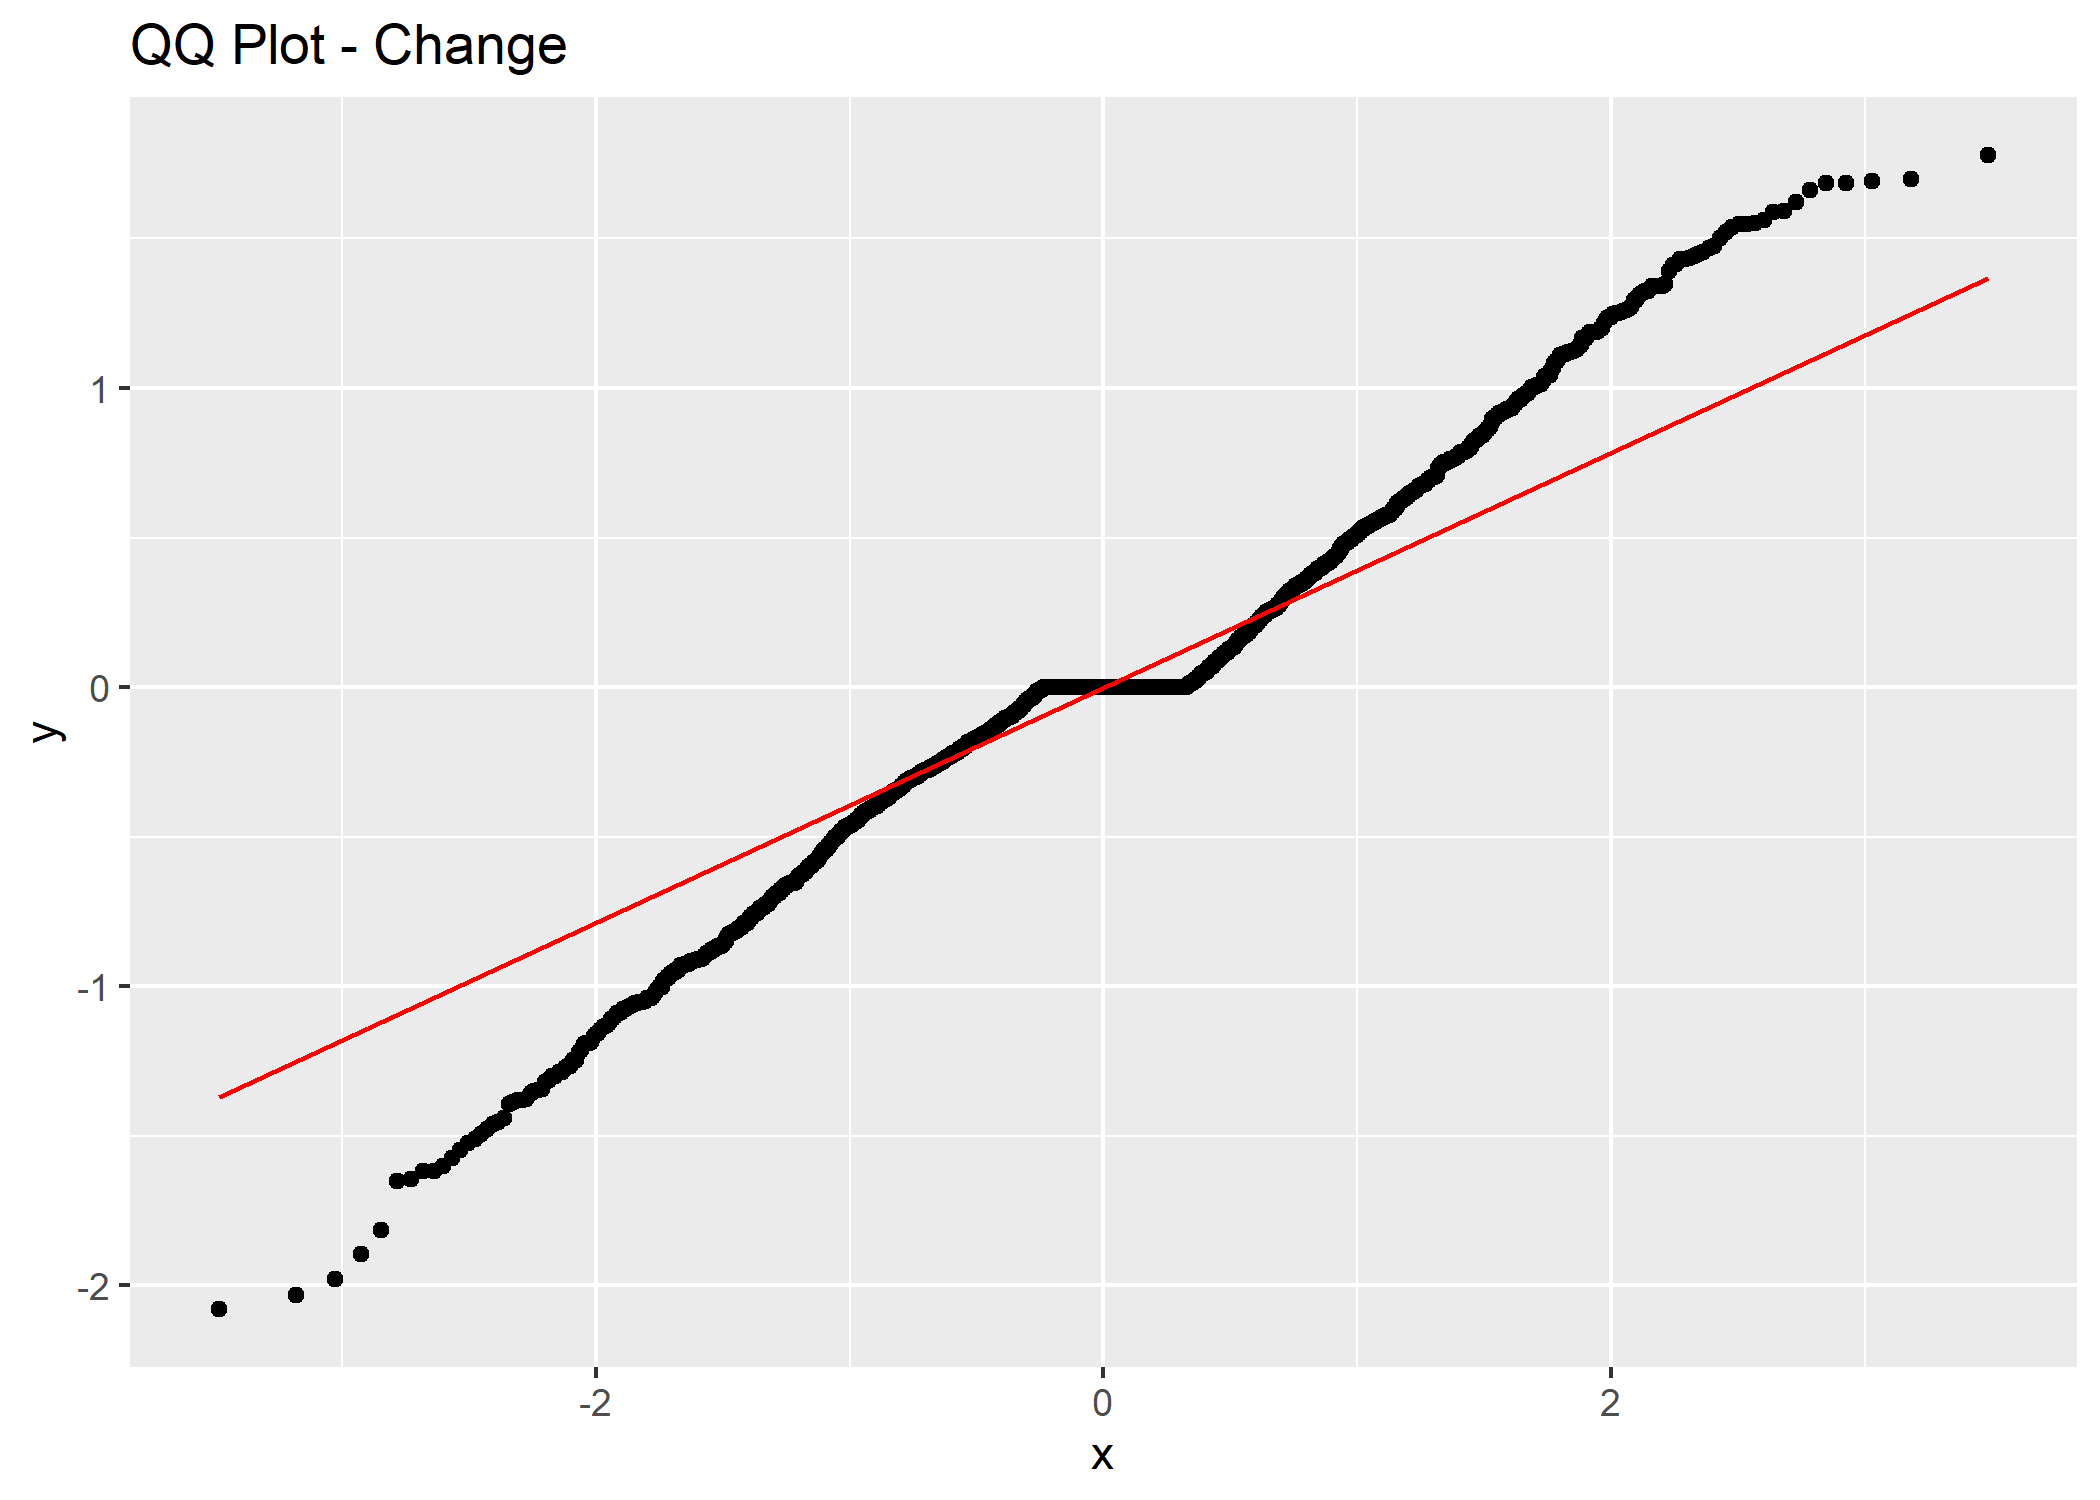
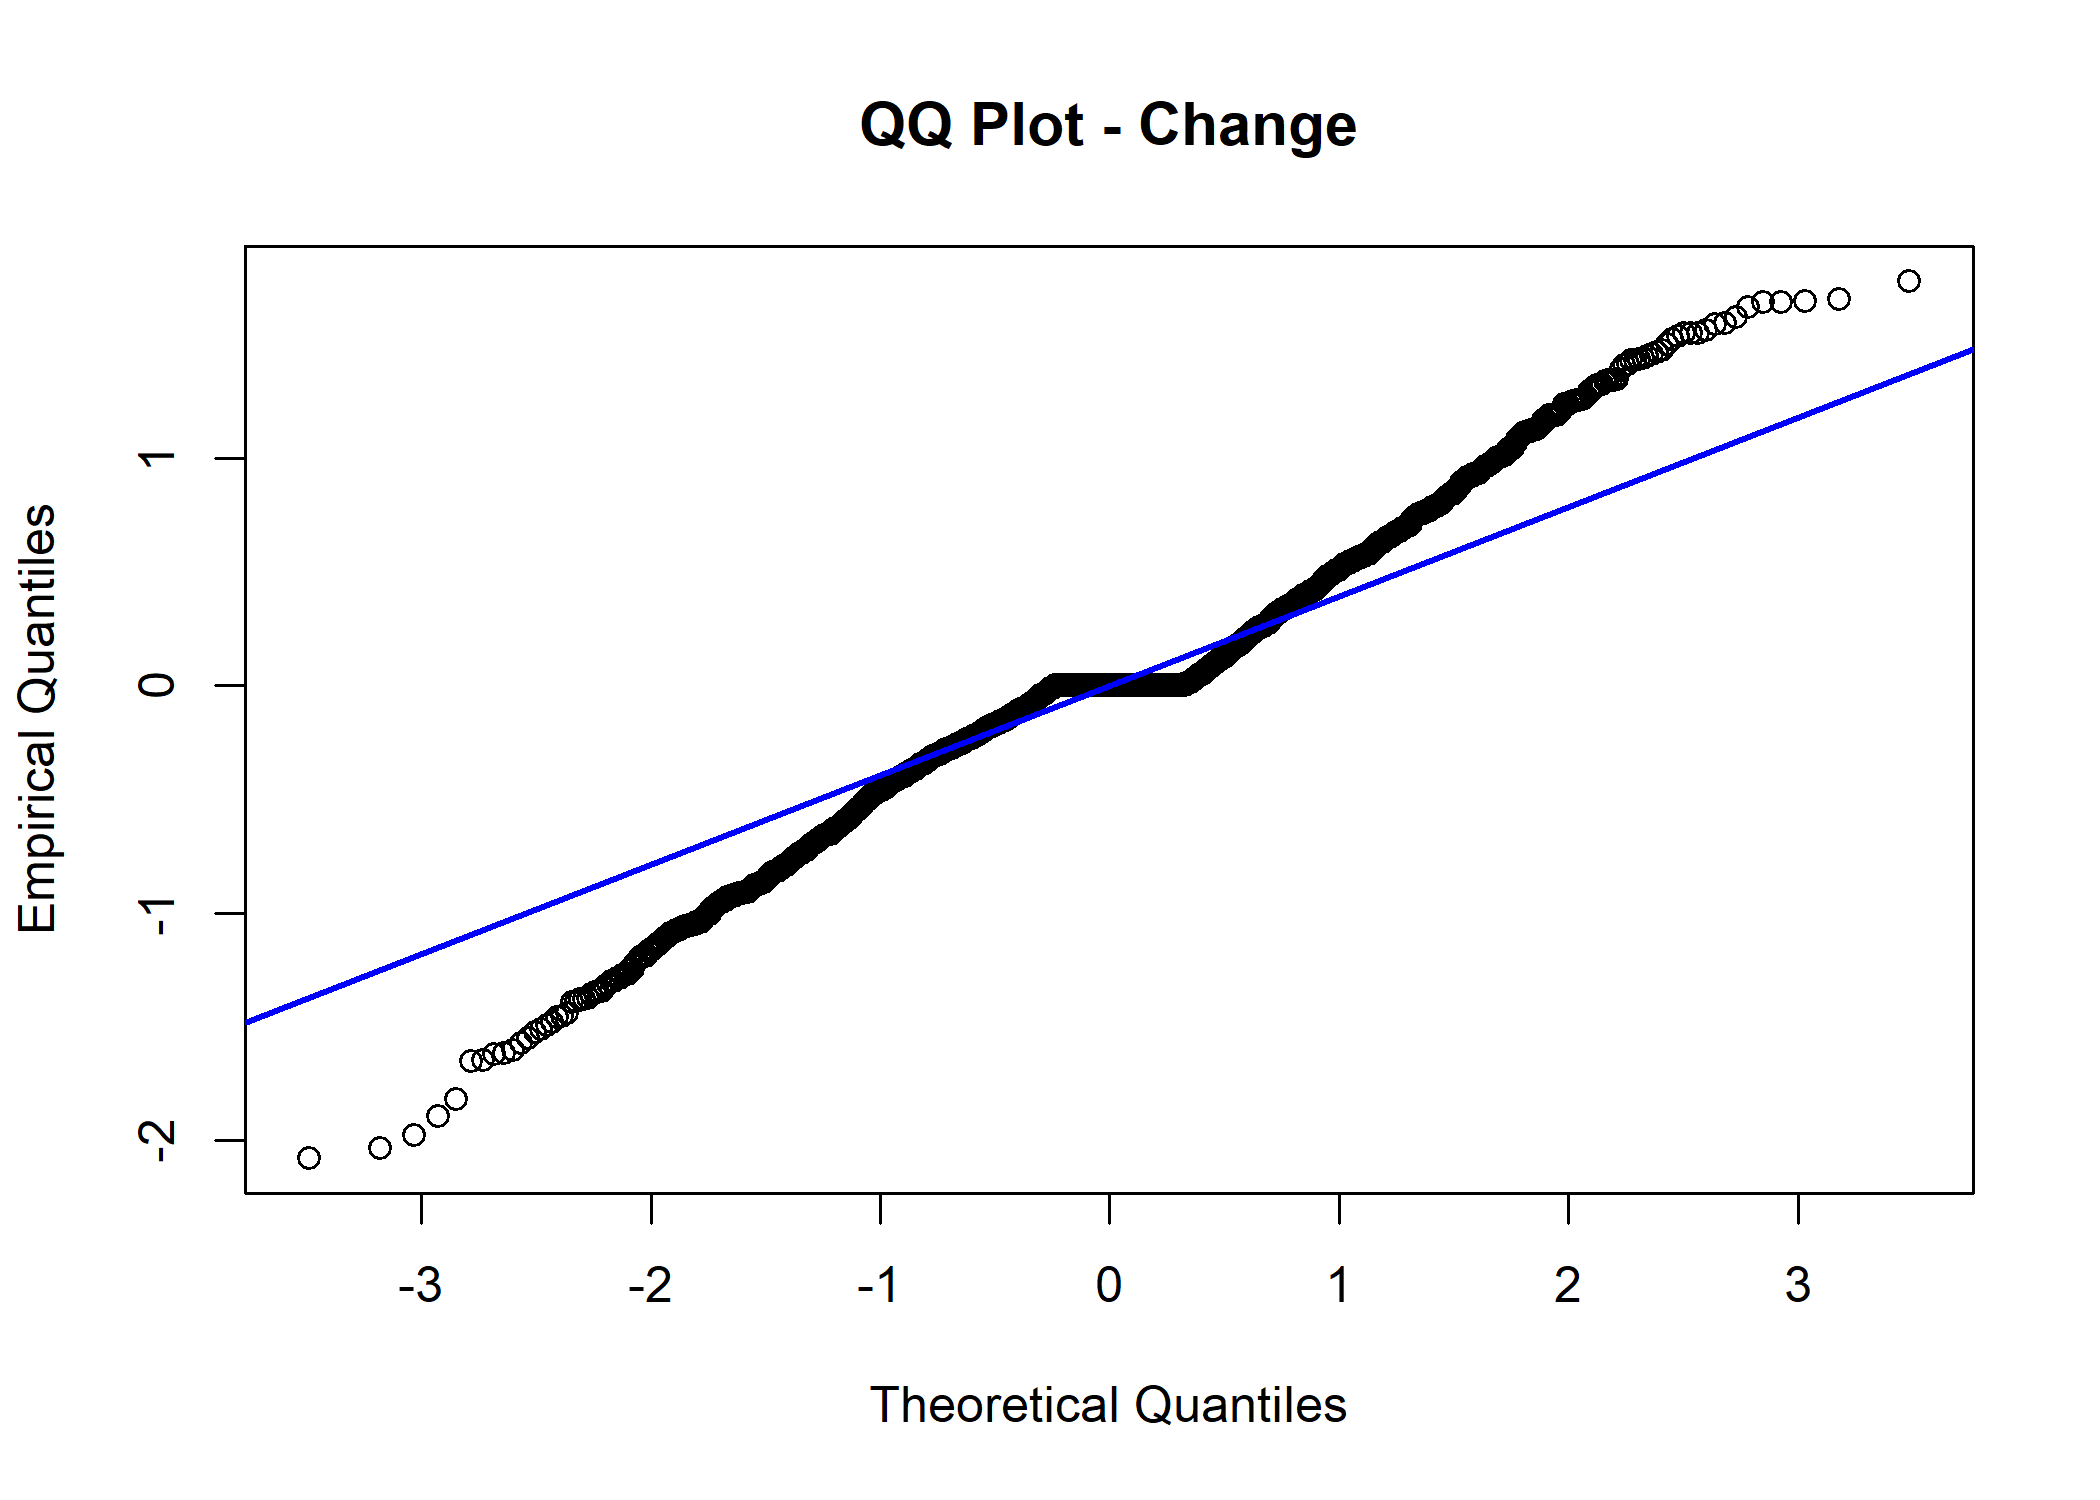
update plot -> calc_qqplot in readme

diff --git a/README.md b/README.md
@@ -65,13 +65,8 @@ As well as tools to diagnose the patterns both from samplers and
 participants:
 
 ``` r
-plot_qqplot(chain[[1]], change = TRUE)
+v <- calc_qqplot(chain[[1]], change = TRUE, plot=T)
 ```
 
 ![](man/figures/README-unnamed-chunk-3-1.png)<!-- -->
-
-``` r
-plot_series(chain[[1]])
-```
-
-![](man/figures/README-unnamed-chunk-3-2.png)<!-- -->
+<!-- TODO: add plot_series(chain[[1]]) again -->
